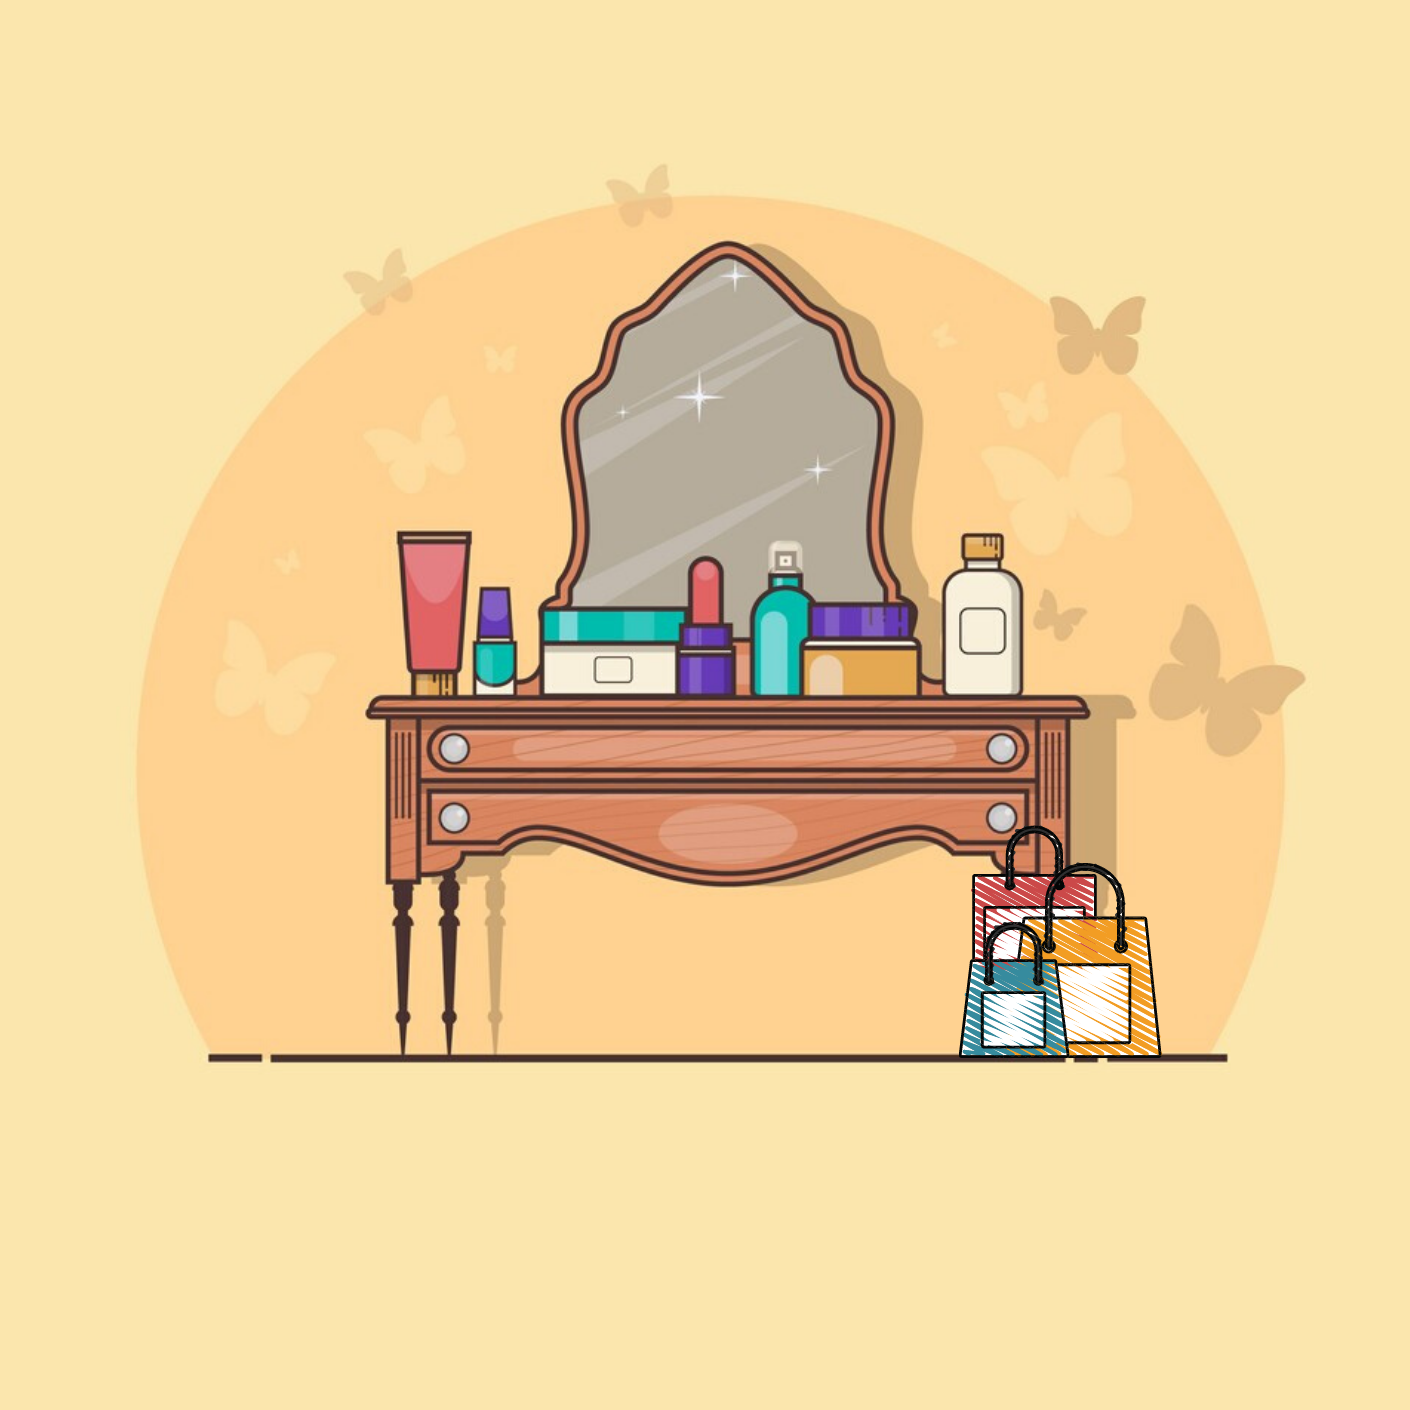
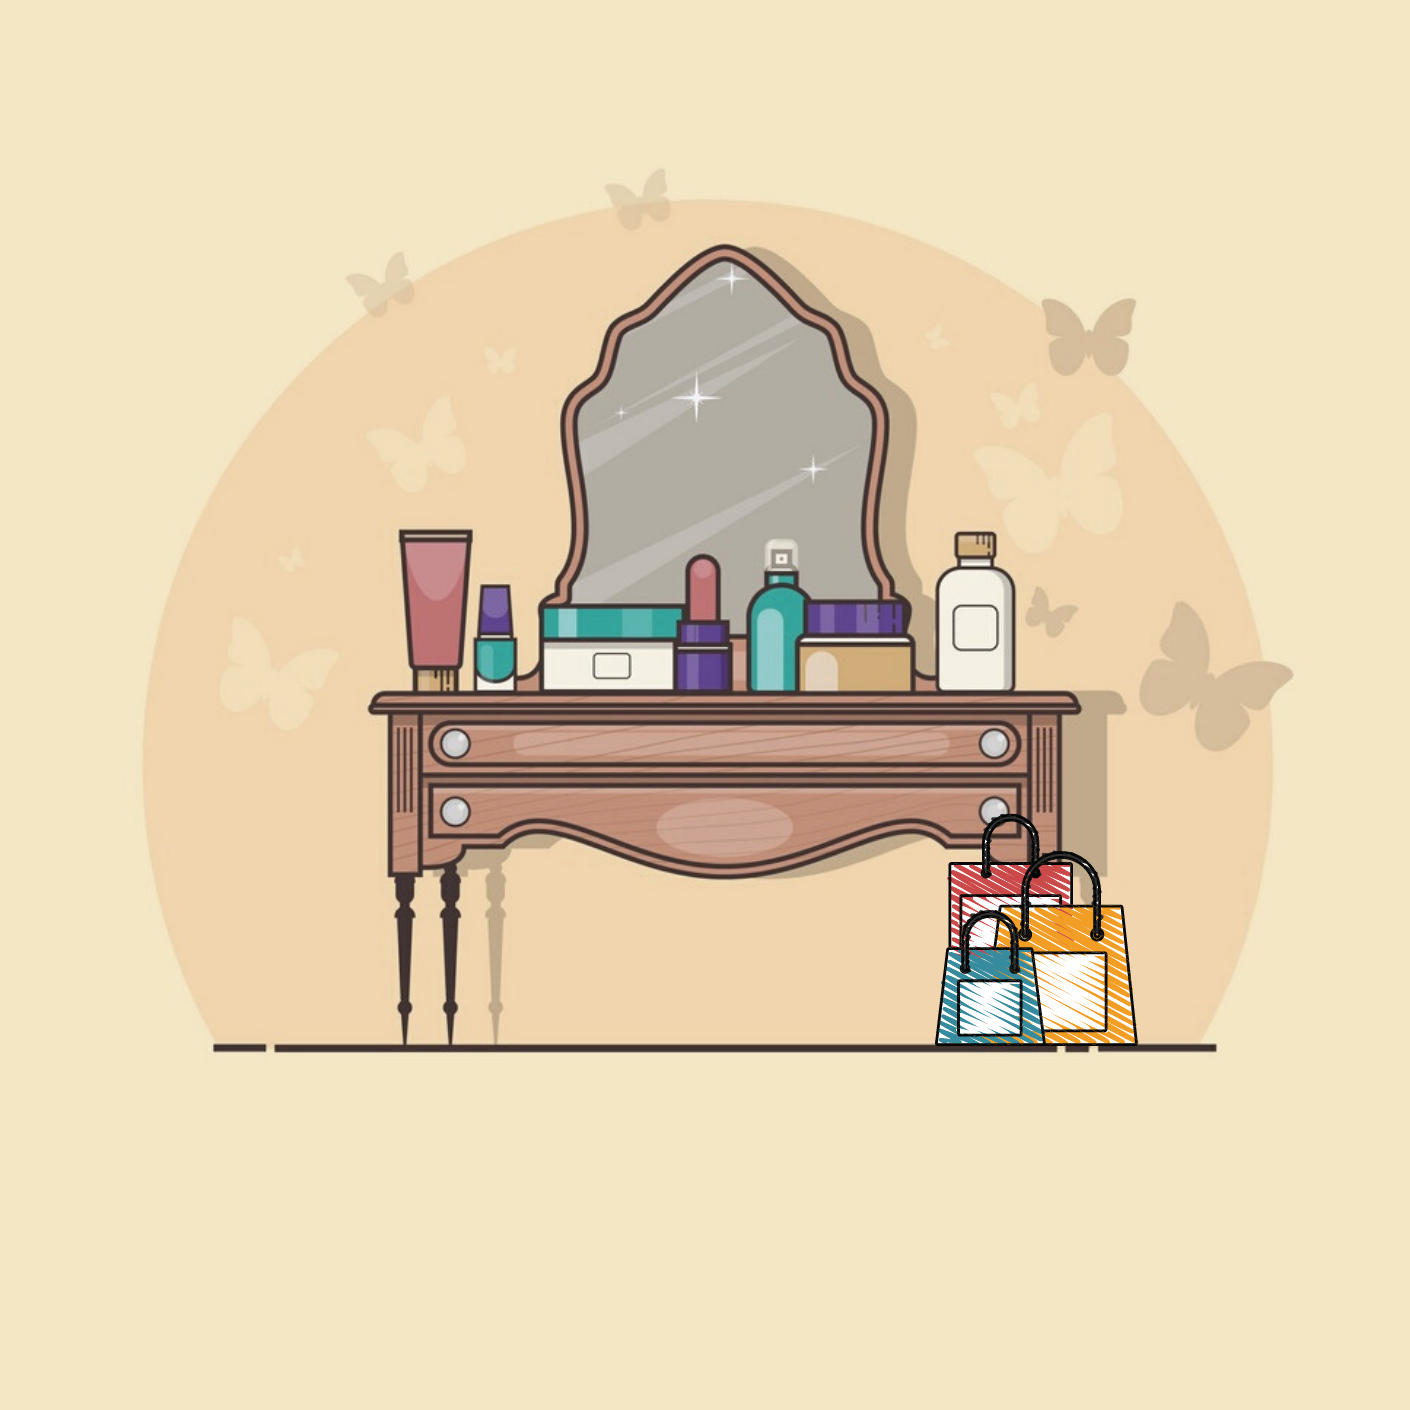
Added images for README.md. Fixed bug for no due date input. Fixed bug for no required message at due-period field.

diff --git a/packageapp/templates/index.html b/packageapp/templates/index.html
@@ -13,7 +13,7 @@
             {% if session.get("id") %}
             <div class="row">
                 <div class="col s12 center-align homepage-welcome">
-                    <h4 class="teal-text lighten-1 title-style">{{ session["name"] }}'s Vanity</h4>
+                    <h4 class="teal-text lighten-1 title-style">{{ session["name"].upper() }}'s Vanity</h4>
                 </div>
             </div>
             {% endif %}

diff --git a/packageapp/static/css/style.css b/packageapp/static/css/style.css
@@ -63,7 +63,7 @@ body {
 /* Index */
 
 .hero-image-index {
-    background-image: url(../images/1.png);
+    background-image: url(../images/vanity.png);
     background-size: cover;
     background-position: top center;
     width: 100%;

diff --git a/packageapp/views.py b/packageapp/views.py
@@ -128,17 +128,18 @@ def updateproduct(product_id):
     due date properly depending on switch choice
     '''
     if request.form.get("dou") != "":
+        d_use = datetime.strptime(request.values.get("dou"), '%b %d, %Y')
         if type(request.form.get("duerelation")) is str:
             due_origin = request.values.get("dou")
         else:
             due_origin = request.values.get("dop")
     else:
         due_origin = request.values.get("dop")
+        d_use = ""
     date_object = datetime.strptime(due_origin, '%b %d, %Y')
     due_date = date_object + relativedelta(months=numbmonths)
     due_string = due_date.strftime('%b %d, %Y')
     d_purchase = datetime.strptime(request.values.get("dop"), '%b %d, %Y')
-    d_use = datetime.strptime(request.values.get("dou"), '%b %d, %Y')
 
     # Actual Updating
     products.update({"_id": ObjectId(product_id)},
@@ -183,17 +184,18 @@ def addproduct():
         due date properly depending on switch choice
         '''
         if request.form["dou"] != "":
+            d_use = datetime.strptime(request.values.get("dou"), '%b %d, %Y')
             if type(request.form.get("duerelation")) is str:
                 due_origin = request.values.get("dou")
             else:
                 due_origin = request.values.get("dop")
         else:
             due_origin = request.values.get("dop")
+            d_use = ""
         date_object = datetime.strptime(due_origin, '%b %d, %Y')
         due_date = date_object + relativedelta(months=numbmonths)
         due_string = due_date.strftime('%b %d, %Y')
         d_purchase = datetime.strptime(request.values.get("dop"), '%b %d, %Y')
-        d_use = datetime.strptime(request.values.get("dou"), '%b %d, %Y')
 
         # New document creation
         new_product = {

diff --git a/packageapp/forms.py b/packageapp/forms.py
@@ -28,5 +28,5 @@ class ProductForm(FlaskForm):
                             validators=[InputRequired(),
                                         NumberRange(min=1, max=3000)])
     dueperiod = IntegerField("Due in (nº months)*",
-                             validators=[DataRequired(),
+                             validators=[InputRequired(),
                                          NumberRange(min=1, max=12)])
